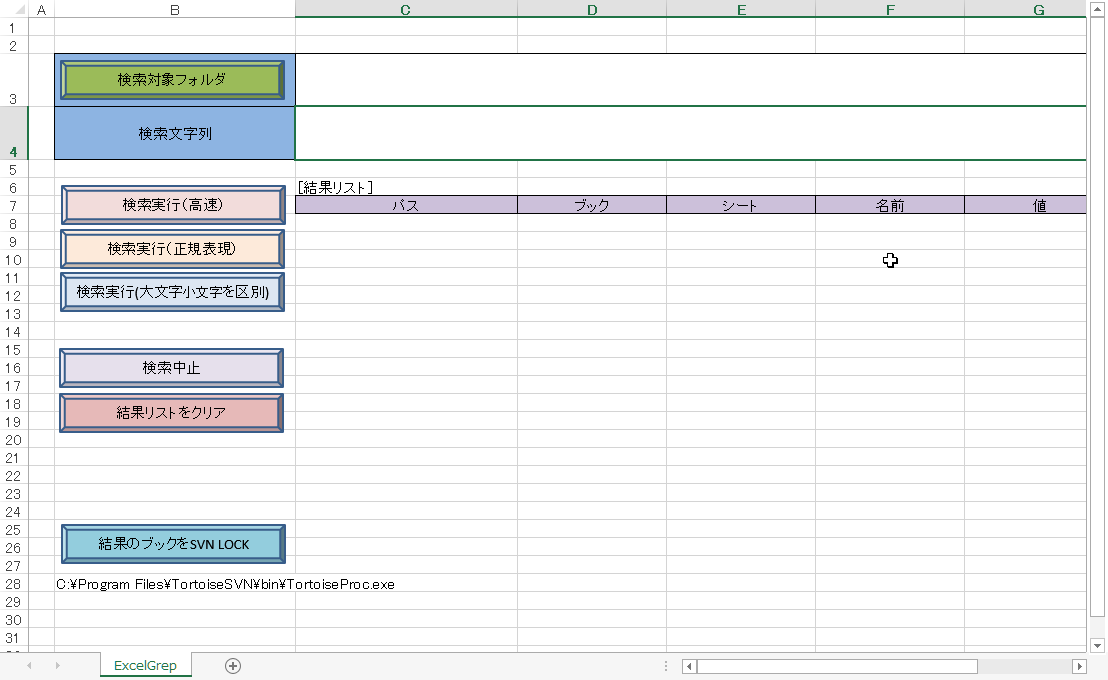
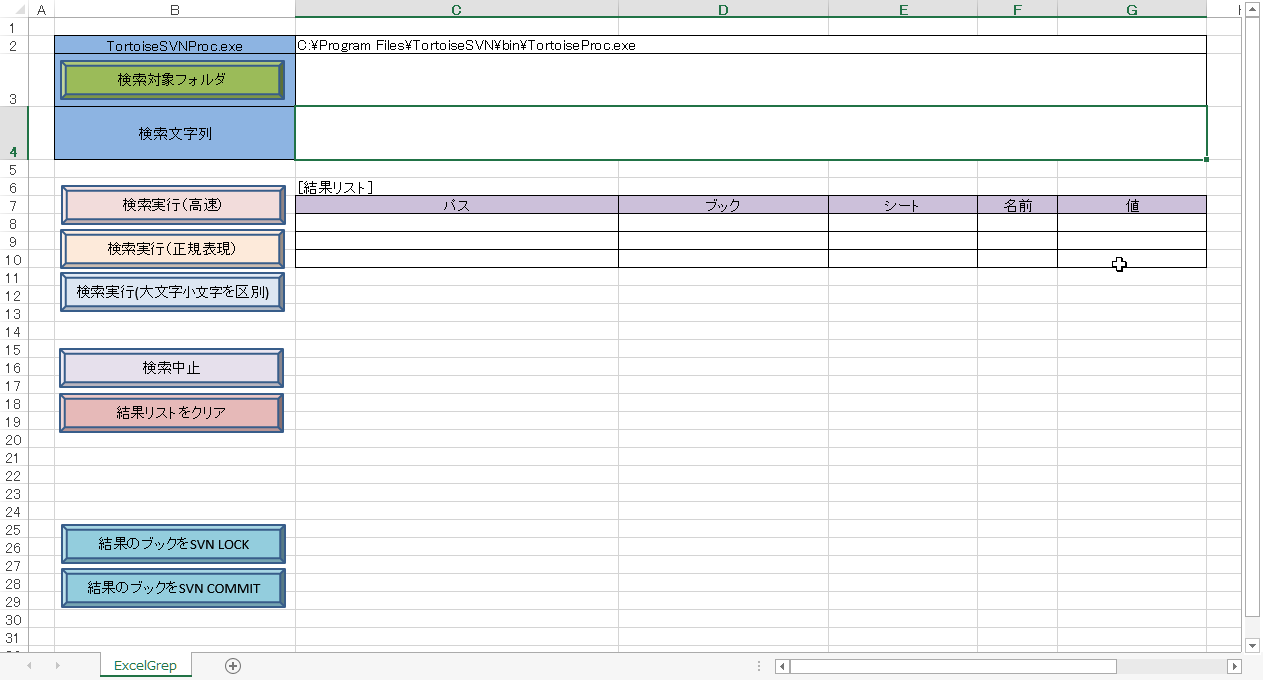
add SVN Commit

diff --git a/README.md b/README.md
@@ -11,11 +11,14 @@ https://gist.github.com/TatsuoWatanabe/2ed13d04d9dd686e9b23206c88a7e1a4
 
 ## 画面イメージ
 
-https://github.com/irukasano/ExcelGrep/blob/master/Image.png?raw=true
+![画面イメージ](https://github.com/irukasano/ExcelGrep/blob/master/Image.png?raw=true)
 
 ## 使い方
 
-1. ExcelGrep.xlsm を開く
-2. 「検索対象フォルダ」ボタンで対象フォルダを指定する
-3. 「検索文字列」に検索対象の文字列を入力する
-4. 「検索実行」を押す
+1. 以下から Zip をダウンロードし、解凍する
+    https://github.com/irukasano/ExcelGrep/archive/master.zip
+
+2. ExcelGrep.xlsm を開く
+3. 「検索対象フォルダ」ボタンで対象フォルダを指定する
+4. 「検索文字列」に検索対象の文字列を入力する
+5. 「検索実行」を押す
